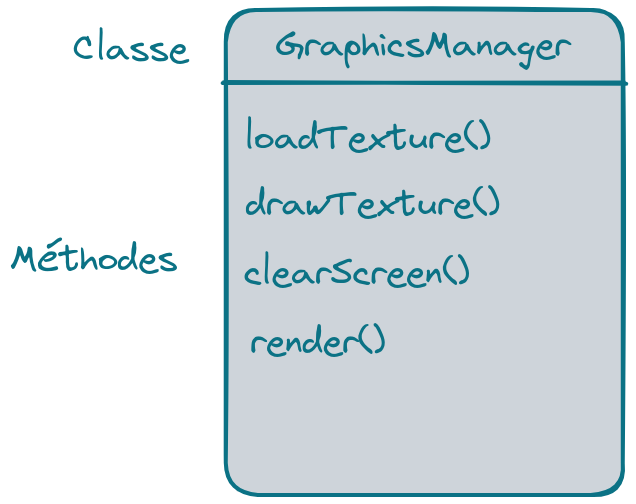
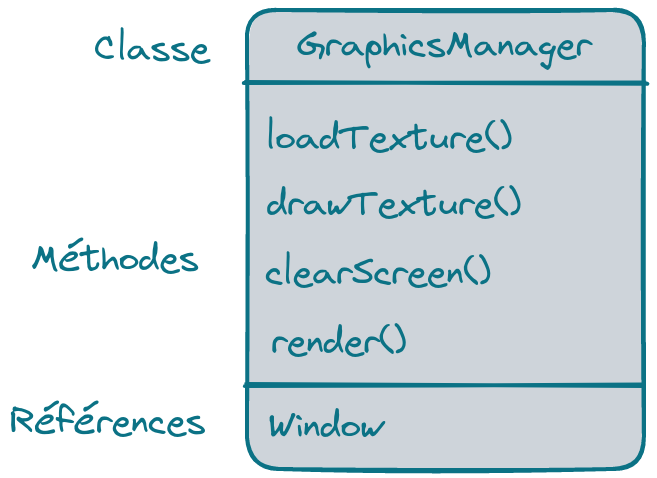
update

Changed region(s): [[0.0, 0.0, 0.9858, 0.9958], [0.0, 0.4686, 0.2987, 0.5858]]

diff --git a/source/implementation.md b/source/implementation.md
@@ -62,4 +62,6 @@ A propos de la partie du programme qui gère la grille du Puissance 4, c'est la 
 Représentation schématique de la classe Board.
 ```
 
+Comme la classe Board est capable de dessiner sa grille de jeu elle-même, elle possède une référence à la classe GraphicsManager qui expose des méthodes pour charger des textures et dessiner sur la fenêtre de la classe Window.
+
 ### Algorithme Minimax
